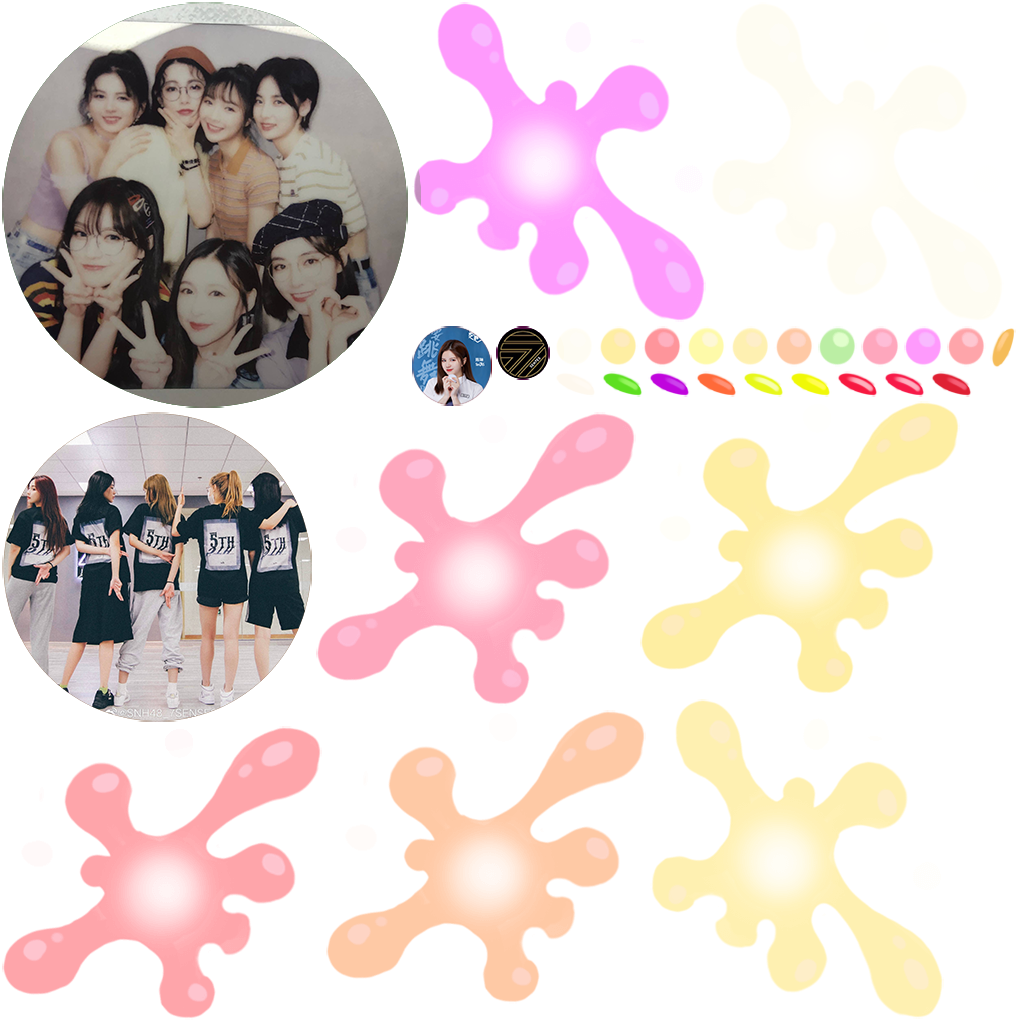
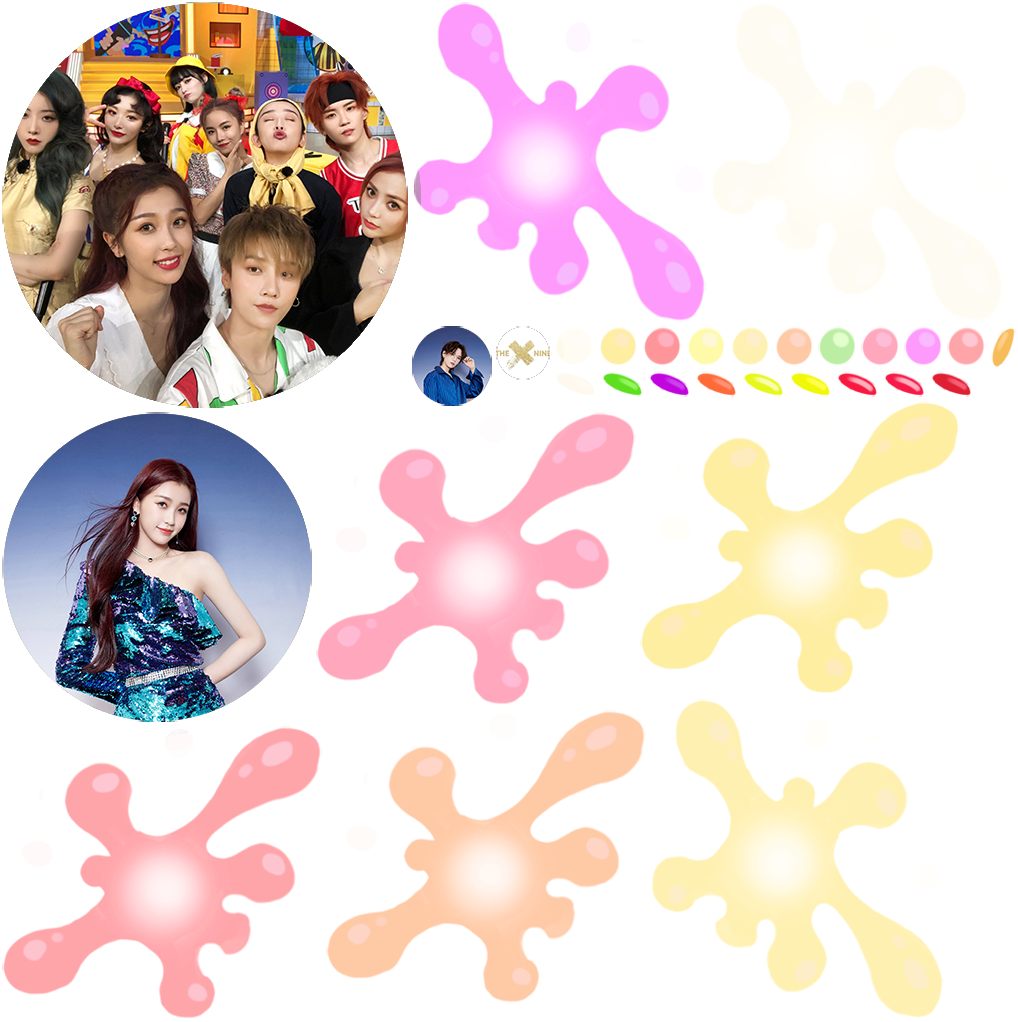
nitial commit

Changed region(s): [[0.0, 0.0, 0.4263, 0.728], [0.3959, 0.3033, 0.5481, 0.3943]]

diff --git a/index.html b/index.html
@@ -4,7 +4,7 @@
 <head>
     <meta charset="utf-8">
 
-    <title>合成734</title>
+    <title>合成THE9</title>
 
     <!--http://www.html5rocks.com/en/mobile/mobifying/-->
     <meta name="viewport" content="width=device-width,user-scalable=no,initial-scale=1, minimum-scale=1,maximum-scale=1" />
@@ -109,7 +109,7 @@
             //        console.log("window.navigator.language",window.navigator.language);
 
             if (window.navigator.language == "zh-CN" || window.navigator.language == "zh-cn") {
-                document.title = "合成734";
+                document.title = "合成THE9";
             } 
 
 
